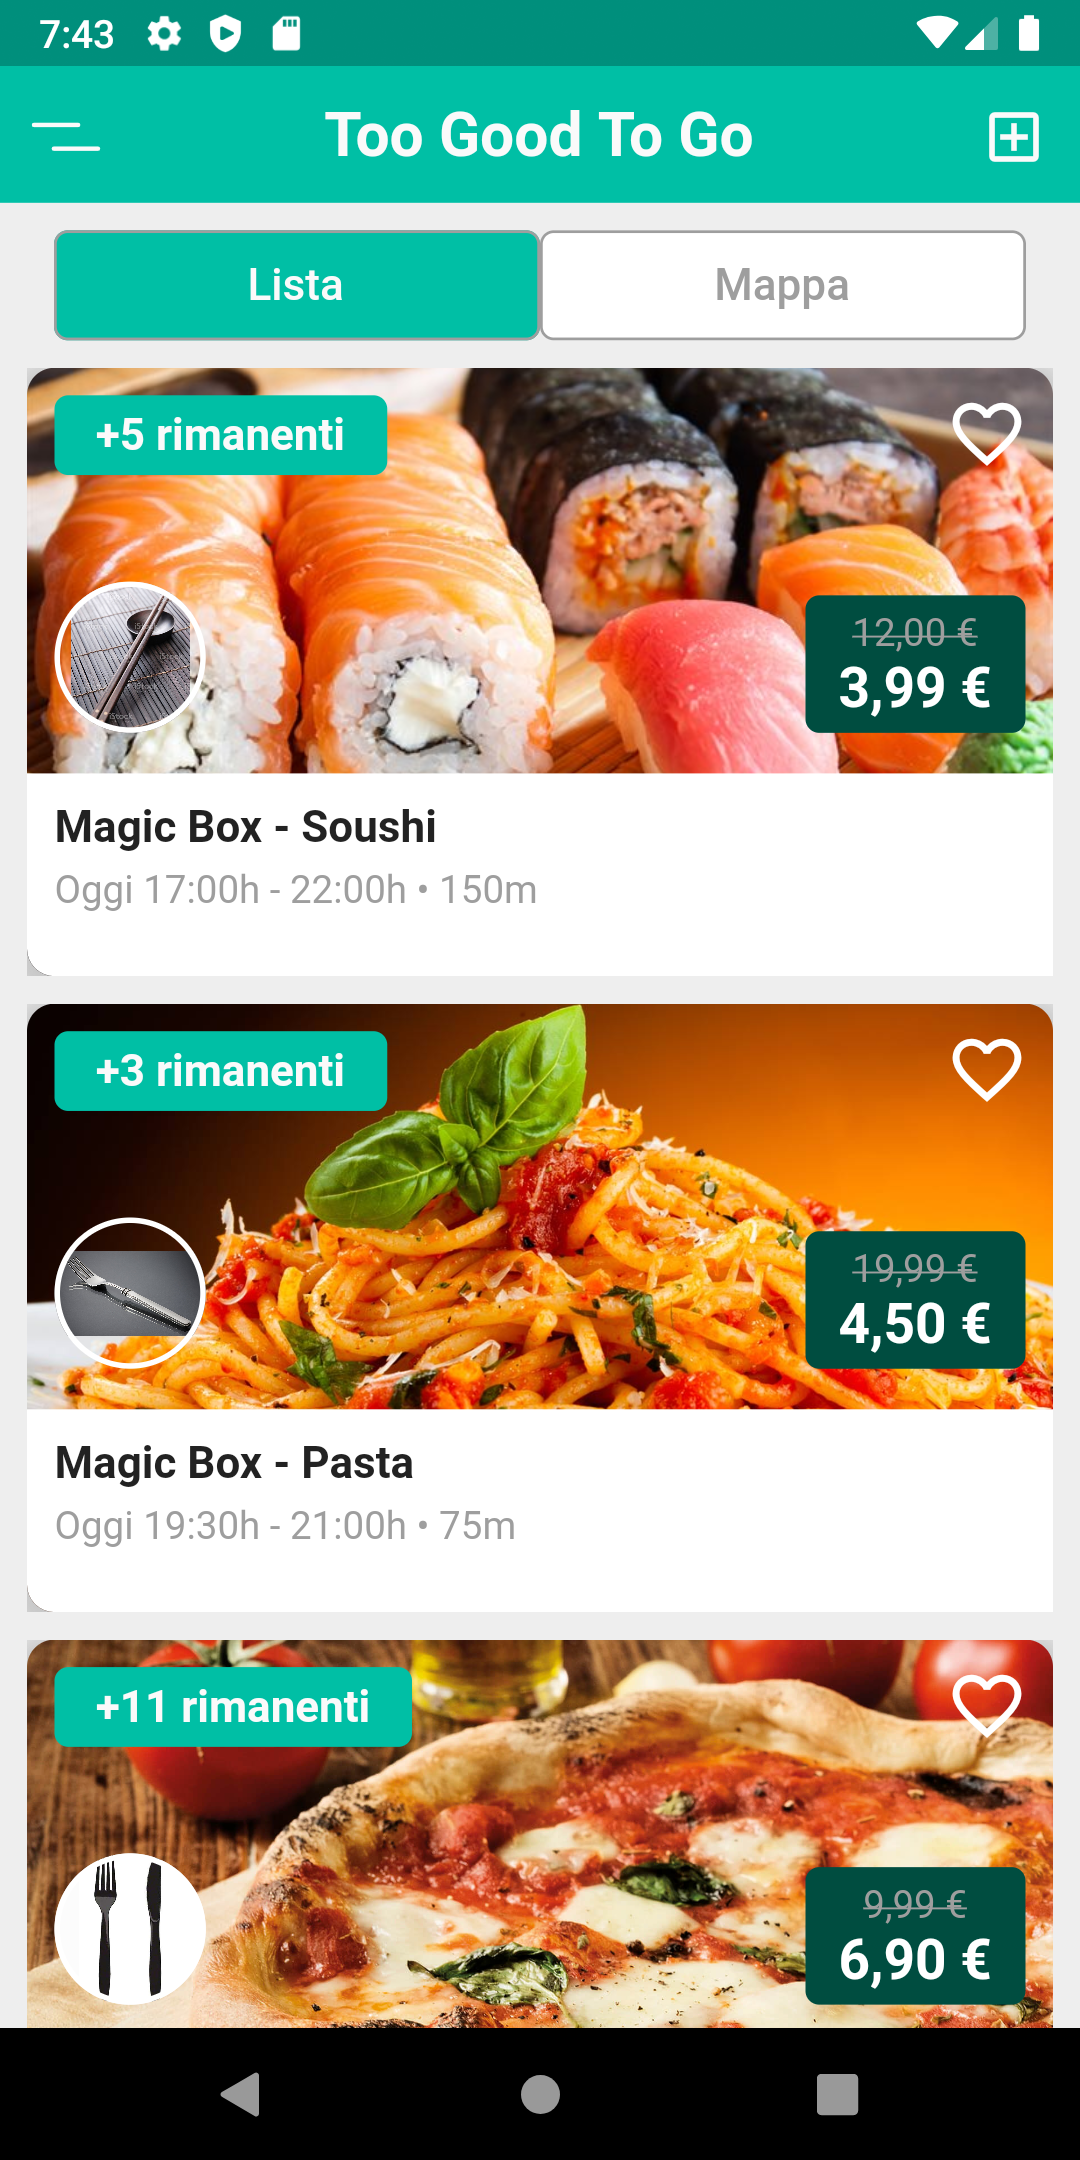
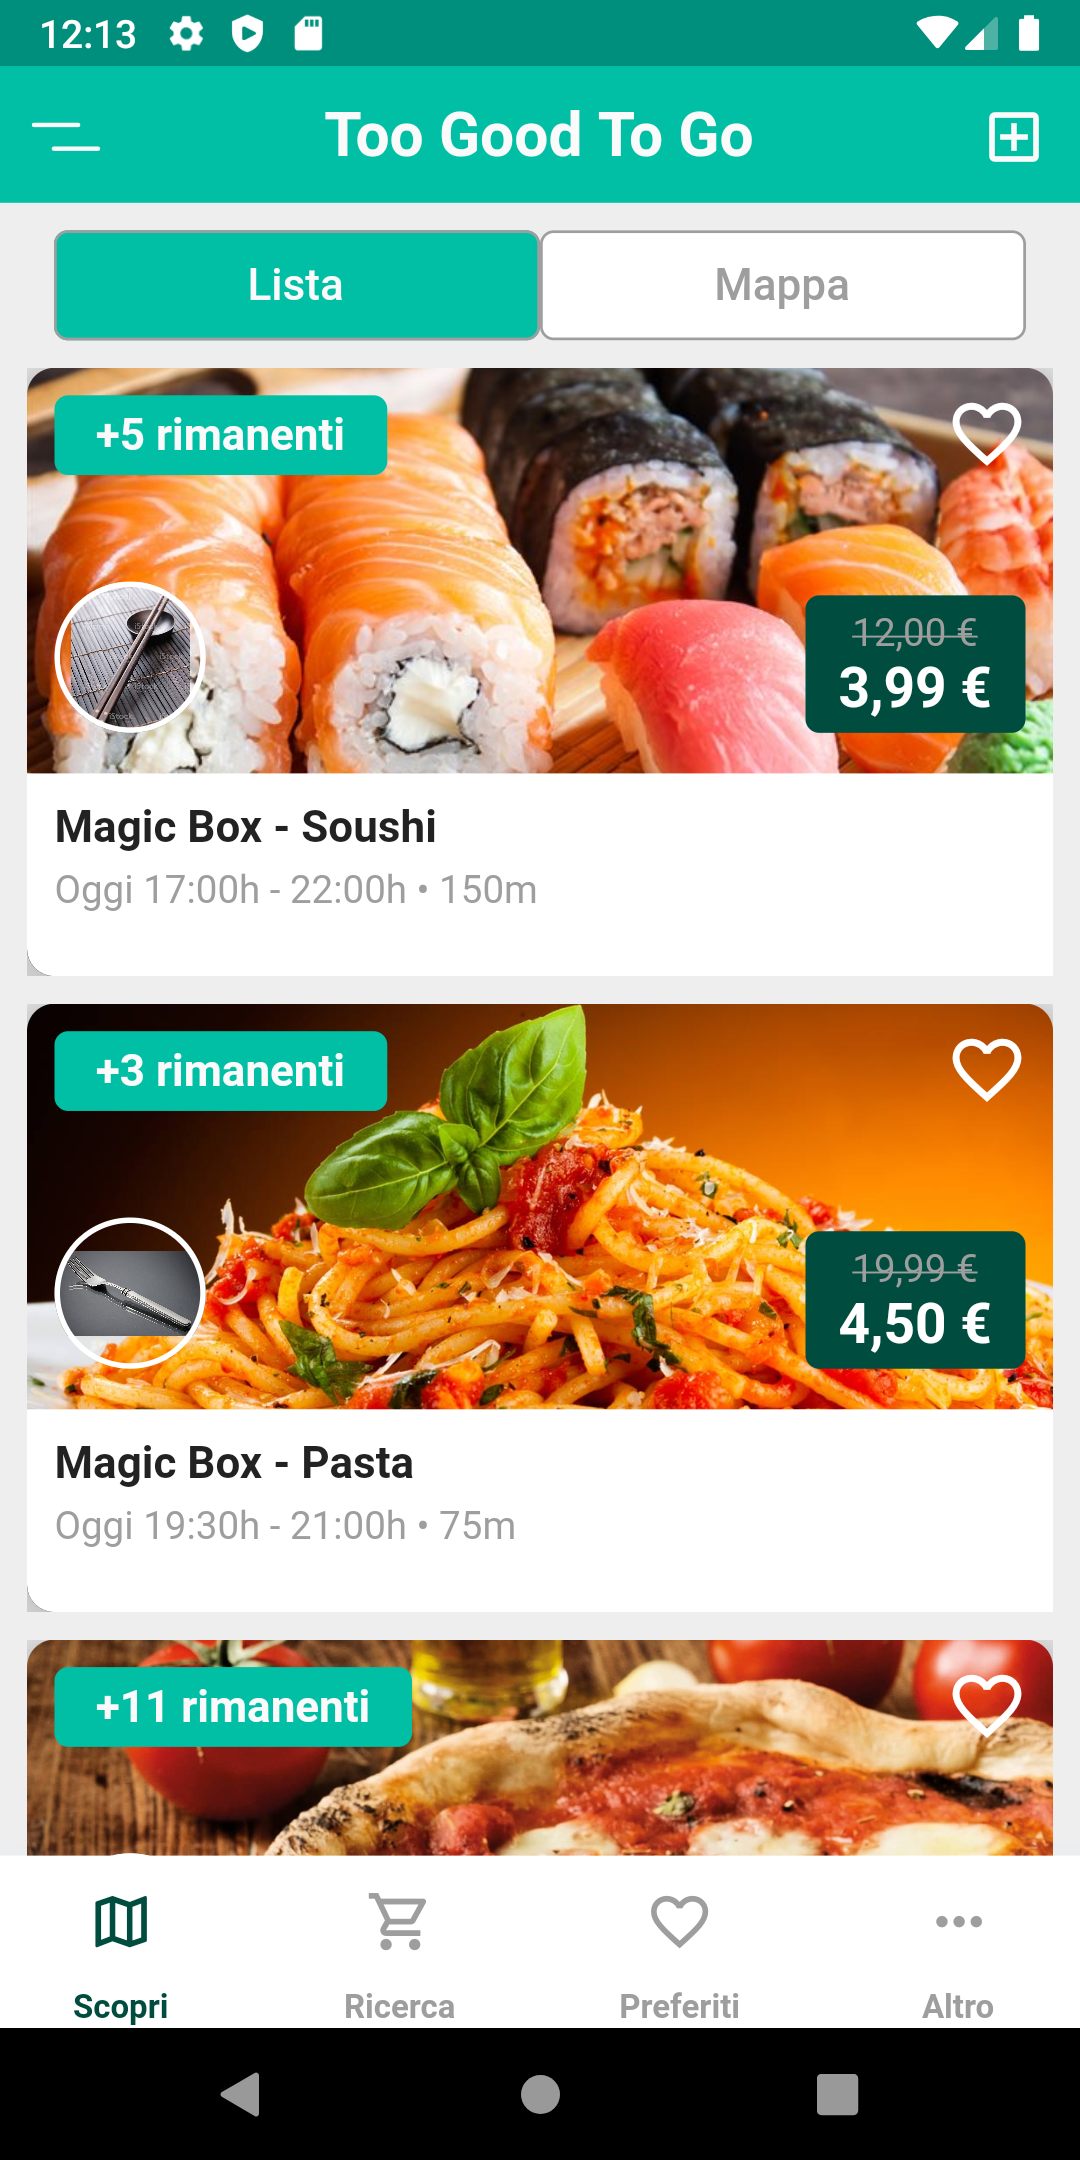
done

Changed region(s): [[0.0, 0.8375, 0.9778, 0.9616], [0.0306, 0.0, 0.3056, 0.031]]

diff --git a/soushi_app/lib/bottom bar/bottom_nav_bar.dart b/soushi_app/lib/bottom bar/bottom_nav_bar.dart
@@ -1,0 +1,74 @@
+import 'package:flutter/material.dart';
+
+class BottomNavBar extends StatelessWidget {
+  @override
+  Widget build(BuildContext context) {
+    Size size = MediaQuery.of(context).size;
+    return Container(
+      alignment: Alignment.bottomCenter,
+      padding: EdgeInsets.symmetric(horizontal: 20),
+      width: size.width,
+      height: size.height * 0.085,
+      color: Colors.white,
+      child: Row(
+        mainAxisAlignment: MainAxisAlignment.spaceBetween,
+        children: <Widget>[
+          SingleButtonCard(
+            title: 'Scopri',
+            icon: Icons.map_outlined,
+            color: Colors.teal[900],
+          ),
+          SingleButtonCard(
+            title: 'Ricerca',
+            icon: Icons.shopping_cart_outlined,
+            color: Colors.grey,
+          ),
+          SingleButtonCard(
+            title: 'Preferiti',
+            icon: Icons.favorite_border,
+            color: Colors.grey,
+          ),
+          SingleButtonCard(
+            title: 'Altro',
+            icon: Icons.more_horiz,
+            color: Colors.grey,
+          ),
+        ],
+      ),
+    );
+  }
+}
+
+class SingleButtonCard extends StatelessWidget {
+  const SingleButtonCard({
+    Key key,
+    this.title,
+    this.icon,
+    this.color,
+  }) : super(key: key);
+
+  final String title;
+  final icon, color;
+
+  @override
+  Widget build(BuildContext context) {
+    return Column(
+      children: [
+        IconButton(
+          icon: Icon(icon),
+          onPressed: () {},
+          color: color,
+          iconSize: 25,
+        ),
+        Text(
+          title,
+          style: TextStyle(
+            color: color,
+            fontSize: 12,
+            fontWeight: FontWeight.bold,
+          ),
+        ),
+      ],
+    );
+  }
+}

diff --git a/soushi_app/lib/main.dart b/soushi_app/lib/main.dart
@@ -2,6 +2,8 @@ import 'package:flutter/material.dart';
 import 'package:soushi_app/constants.dart';
 import 'package:soushi_app/screen/body.dart';
 
+import 'bottom bar/bottom_nav_bar.dart';
+
 void main() {
   runApp(
     MaterialApp(
@@ -18,6 +20,7 @@ class HomePage extends StatelessWidget {
     return Scaffold(
       backgroundColor: kBackgroundColor,
       body: Body(),
+      bottomNavigationBar: BottomNavBar(),
     );
   }
 }
